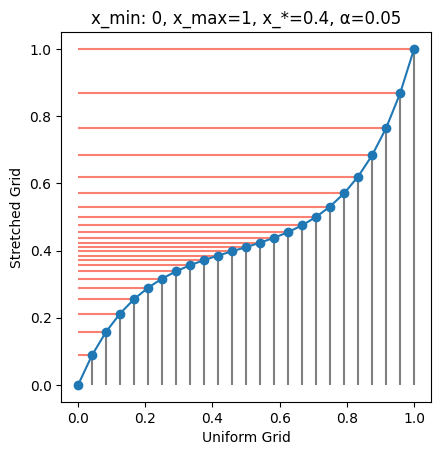
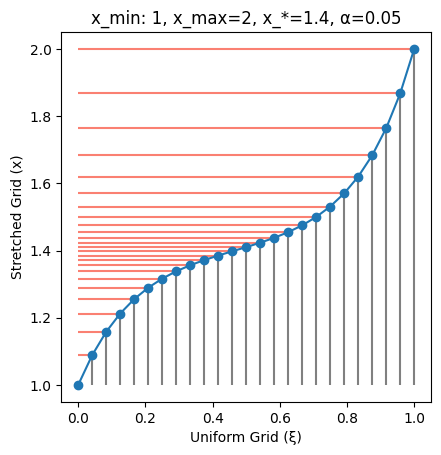
another quite old post

diff --git a/_posts/2016-12-01-pde-grids.md b/_posts/2016-12-01-pde-grids.md
@@ -1,21 +1,23 @@
 ---
 layout: splash
 permalink: /pde-grids/
-title: "How to Define Non-Uniform Grid for PDE Solvers"
+title: "How to Define Non-Uniform Grids for PDE Solvers"
 header:
   overlay_image: /assets/images/pde-grids/pde-grids-splash.png
 excerpt: "A common approach to define grids in an interval whose nodes are concentrated around a given point."
 ---
 
-In this article we look at how to construct non-uniform grids for PDE solutions. We follow the methodology presented in the book [Pricing Financial Instruments: The Finite Difference Method](https://www.amazon.com/Pricing-Financial-Instruments-Finite-Difference/dp/0471197602) by Domingo Tavella and Curt Randall, chapter 5.
+In this article we look at how to construct non-uniform grids for solving partial differential equations (PDEs). We follow the methodology presented in the book [Pricing Financial Instruments: The Finite Difference Method](https://www.amazon.com/Pricing-Financial-Instruments-Finite-Difference/dp/0471197602) by Domingo Tavella and Curt Randall, chapter 5. The focus is on PDEs approximated by means of a [finite difference method](https://en.wikipedia.org/wiki/Finite_difference_method) on simple domains. By 'simple' we mean that the computational domain $\Omega \subset \mathbb{R}^d$ is a product of one-dimensional intervals, $\Omega = [x_{1, min}, x_{1, max}] \times x_{2, min}, x_{2, max}] \times \cdots \times x_{d, min}, x_{d, max}]$, with each $x_{i, min}$ and $x_{i, max}$ the minimal and maximal coordinate along the $i-th$ dimension. In this case the grid is the product of the PDE grid on each dimension; it will then suffice to consider the grid construction on a given axis, which is what we will do. We will drop the $i$ index for simplicity of notation, so $x_{min}$ and $x_{max}$ will be the minimual and maximal value of the grid we aim to construct.
 
-Without loss of generality, we assume $0 = \xi_1 < \xi_1 < \ldots < \xi_n = 1$ to be a uniform discretization, and $g: [0, 1] \rightarrow [0, 1]$ a transformation function that maps the uniform coordinates $\xi_i$ into the non-uniform one $x_i$. We write
+Without loss of generality, we assume $0 = \xi_1 < \xi_1 < \ldots < \xi_n = 1$ to be a uniform discretization, and $g: [x_{min}, x_{max}] \rightarrow [0, 1]$ a transformation function that maps the uniform coordinates $\xi_i$ into the non-uniform one $x_i$. We write
 
 $$
 \frac{d x(\xi)}{d\xi} = g'(\xi),
 $$
 
-where $g'(\xi)$ tells us how much the grid changes at any given point. By modeling $g'$ we can aim to control the location of the points in the non-uniform grid. Any positive function will do it; a convenient choice is
+where $g'(\xi)$ tells us how much the grid changes at any given point. By modeling $g'$ we can aim to control the location of the points in the non-uniform grid. Any positive function will do it; our choice will depend on the grid we aim to have.
+
+The most common case is where we have one point, $x^\star$ around which we want to concentrate the points. In this case a convenient choice for $g'(\xi)$ is
 
 $$
 g'(\xi) = A \sqrt{\alpha^2 + (x(\xi) - x^\star)^2},
@@ -65,7 +67,7 @@ $$
 x(\xi) = x^\star + \alpha \sinh^{-1} \left( c_1(\xi - 1) + c2 \xi \right),
 $$
 
-which is the form we will test.
+which is the form we will test. The implementation is straightforward.
 
 
 ```python
@@ -78,11 +80,11 @@ import scipy as sp
 ```python
 class SinhTransformation:
     
-    def __init__(self, x_star, α):
-        assert x_star >= 0 and x_star <= 1
+    def __init__(self, x_min, x_max, x_star, α):
+        assert x_star >= x_min and x_star <= x_max
         assert α > 0
-        self.x_min = 0
-        self.x_max = 1
+        self.x_min = x_min
+        self.x_max = x_max
         self.x_star = x_star
         self.α = α
         self.c_1 = np.arcsinh((self.x_min - self.x_star) / self.α)
@@ -107,18 +109,20 @@ class SinhTransformation:
 def plot_grid(t):
     x_grid = t(ξ_grid)
     for ξ, x in zip(ξ_grid, x_grid):
-        plt.vlines(x=ξ, ymin=0, ymax=x, color='grey')
+        plt.vlines(x=ξ, ymin=t.x_min, ymax=x, color='grey')
         plt.hlines(y=x, xmin=0, xmax=ξ, color='salmon')
     plt.plot(ξ_grid, x_grid, '-o')
     plt.axis('square')
-    plt.xlabel('Uniform Grid')
-    plt.ylabel('Stretched Grid')
+    plt.xlabel('Uniform Grid (ξ)')
+    plt.ylabel('Stretched Grid (x)')
     plt.title(str(t))
 ```
 
+As expected, when $\alpha=$ the grid is almost uniform (though not exactly uniform). On the X-axis we report the uniform grid, indicated by $\xi$ and defined between 0 and 1; the the Y-axis we have the non-uniform grid, indicated by $x$ and defined between $x_{min}$ and $x_{max}$.
+
 
 ```python
-plot_grid(SinhTransformation(x_star=0.4, α=1))
+plot_grid(SinhTransformation(x_min=1, x_max=2, x_star=1.4, α=1))
 ```
 
 
@@ -127,9 +131,11 @@ plot_grid(SinhTransformation(x_star=0.4, α=1))
     
 
 
+With $\alpha=0.1$ the non-uniformity increases, with points concentrated around $x^\star=1.4$.
+
 
 ```python
-plot_grid(SinhTransformation(x_star=0.4, α=0.1))
+plot_grid(SinhTransformation(x_min=1, x_max=2, x_star=1.4, α=0.1))
 ```
 
 
@@ -138,9 +144,11 @@ plot_grid(SinhTransformation(x_star=0.4, α=0.1))
     
 
 
+Using $\alpha=0.05$ makes the non-uniformity even more prominent.
+
 
 ```python
-plot_grid(SinhTransformation(x_star=0.4, α=0.05))
+plot_grid(SinhTransformation(x_min=1, x_max=2, x_star=1.4, α=0.05))
 ```
 
 
@@ -148,6 +156,8 @@ plot_grid(SinhTransformation(x_star=0.4, α=0.05))
 ![png](/assets/images/pde-grids/pde-grids-3.png)
     
 
+
+Another case it to have more points around which we want to concentrate the grid. This case is less straightforward.
 
 
 ```python
